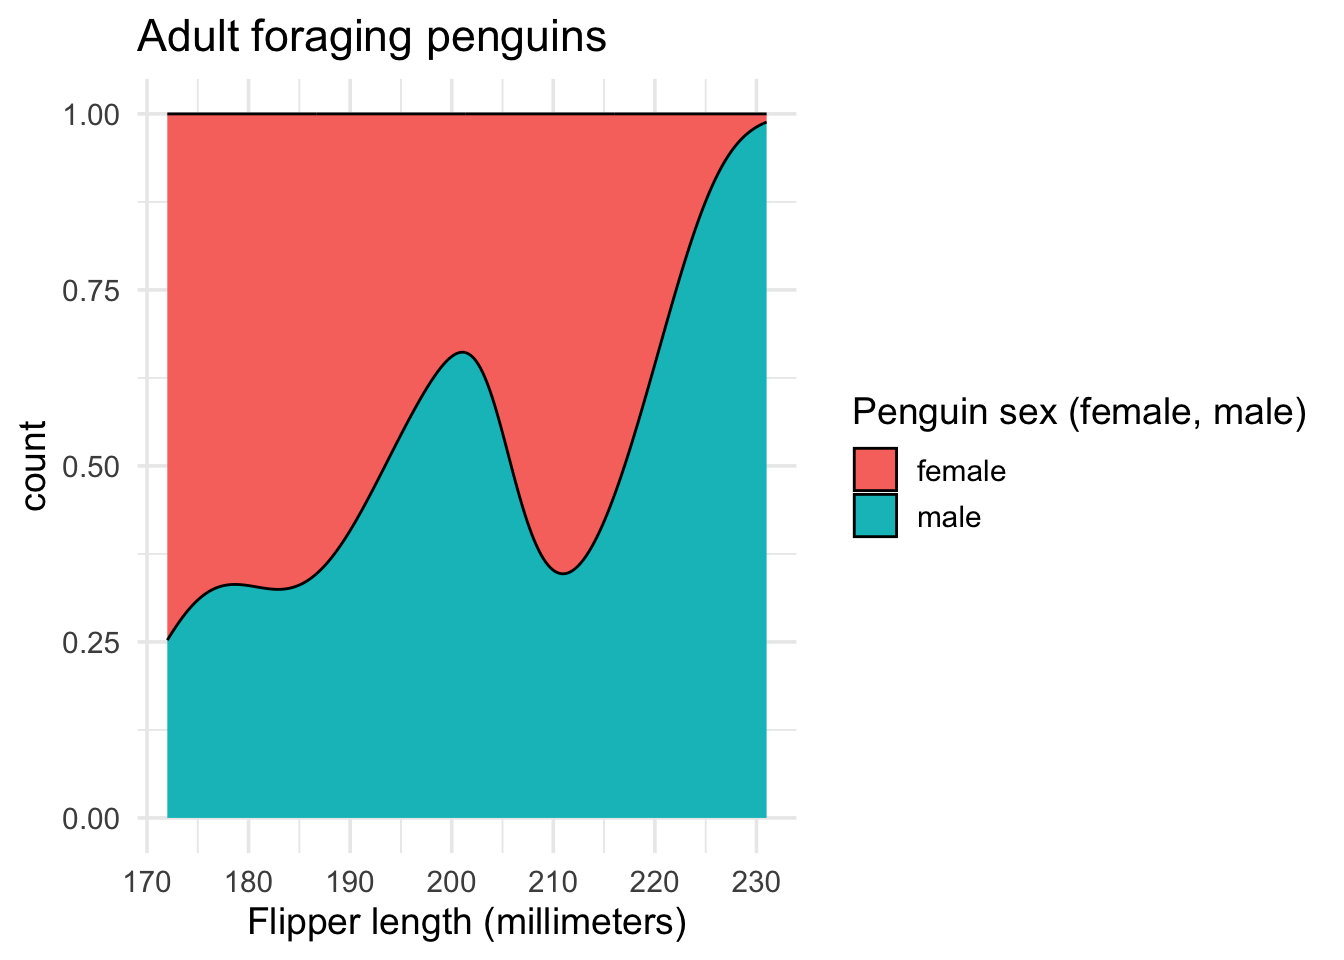
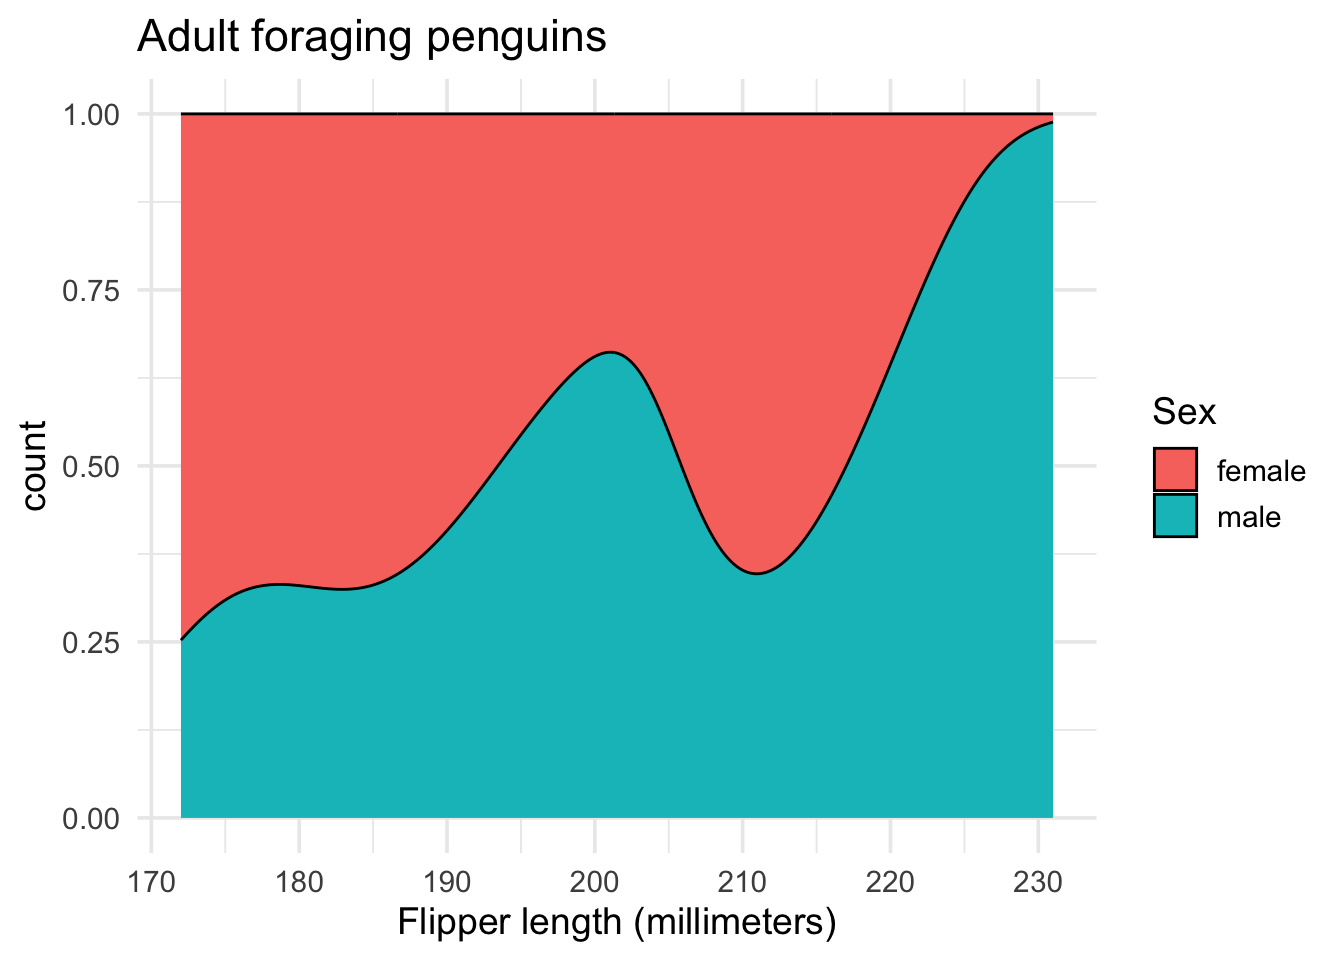
new build

diff --git a/docs/amounts.html b/docs/amounts.html
@@ -1003,7 +1003,7 @@ $ occurrences &lt;int&gt; 5, 0, 1, 4, 8, 0, 6, 0, 0, 2, 0, 2, 12, 12, 7, 0, 2, 7
 <span id="cb31-7"><a href="#cb31-7" aria-hidden="true" tabindex="-1"></a>       <span class="fu">aes</span>(<span class="at">x =</span> season, </span>
 <span id="cb31-8"><a href="#cb31-8" aria-hidden="true" tabindex="-1"></a>           <span class="at">y =</span> object, </span>
 <span id="cb31-9"><a href="#cb31-9" aria-hidden="true" tabindex="-1"></a>           <span class="at">fill =</span> occurrences)) <span class="sc">+</span> </span>
-<span id="cb31-10"><a href="#cb31-10" aria-hidden="true" tabindex="-1"></a>       <span class="fu">geom_tile</span>()</span>
+<span id="cb31-10"><a href="#cb31-10" aria-hidden="true" tabindex="-1"></a>       <span class="fu">geom_tile</span>() </span>
 <span id="cb31-11"><a href="#cb31-11" aria-hidden="true" tabindex="-1"></a>ggp2_heatmap_tile <span class="sc">+</span> </span>
 <span id="cb31-12"><a href="#cb31-12" aria-hidden="true" tabindex="-1"></a>  labs_heatmap_tile</span></code><button title="Copy to Clipboard" class="code-copy-button"><i class="bi"></i></button></pre></div>
 </div>
@@ -1103,7 +1103,7 @@ $ occurrences &lt;int&gt; 5, 0, 1, 4, 8, 0, 6, 0, 0, 2, 0, 2, 12, 12, 7, 0, 2, 7
 <span id="cb35-7"><a href="#cb35-7" aria-hidden="true" tabindex="-1"></a>       <span class="fu">aes</span>(<span class="at">x =</span> season, </span>
 <span id="cb35-8"><a href="#cb35-8" aria-hidden="true" tabindex="-1"></a>           <span class="at">y =</span> object, </span>
 <span id="cb35-9"><a href="#cb35-9" aria-hidden="true" tabindex="-1"></a>           <span class="at">fill =</span> occurrences)) <span class="sc">+</span> </span>
-<span id="cb35-10"><a href="#cb35-10" aria-hidden="true" tabindex="-1"></a>       <span class="fu">geom_raster</span>()</span>
+<span id="cb35-10"><a href="#cb35-10" aria-hidden="true" tabindex="-1"></a>       <span class="fu">geom_raster</span>() </span>
 <span id="cb35-11"><a href="#cb35-11" aria-hidden="true" tabindex="-1"></a>ggp2_heatmap_raster <span class="sc">+</span> </span>
 <span id="cb35-12"><a href="#cb35-12" aria-hidden="true" tabindex="-1"></a>  labs_heatmap_raster</span></code><button title="Copy to Clipboard" class="code-copy-button"><i class="bi"></i></button></pre></div>
 </div>

diff --git a/docs/proportions.html b/docs/proportions.html
@@ -662,7 +662,7 @@ $ year              &lt;int&gt; 2007, 2007, 2007, 2007, 2007, 2007, 2007, 2007, 
 <div class="sourceCode cell-code" id="cb20"><pre class="sourceCode r code-with-copy"><code class="sourceCode r"><span id="cb20-1"><a href="#cb20-1" aria-hidden="true" tabindex="-1"></a>labs_fill_density <span class="ot">&lt;-</span> <span class="fu">labs</span>(</span>
 <span id="cb20-2"><a href="#cb20-2" aria-hidden="true" tabindex="-1"></a>  <span class="at">title =</span> <span class="st">"Adult foraging penguins"</span>,</span>
 <span id="cb20-3"><a href="#cb20-3" aria-hidden="true" tabindex="-1"></a>  <span class="at">x =</span> <span class="st">"Flipper length (millimeters)"</span>,</span>
-<span id="cb20-4"><a href="#cb20-4" aria-hidden="true" tabindex="-1"></a>  <span class="at">fill =</span> <span class="st">"Penguin sex (female, male)"</span>)</span>
+<span id="cb20-4"><a href="#cb20-4" aria-hidden="true" tabindex="-1"></a>  <span class="at">fill =</span> <span class="st">"Sex"</span>)</span>
 <span id="cb20-5"><a href="#cb20-5" aria-hidden="true" tabindex="-1"></a>ggp2_fill_density <span class="ot">&lt;-</span> <span class="fu">ggplot</span>(<span class="at">data =</span> peng_density, </span>
 <span id="cb20-6"><a href="#cb20-6" aria-hidden="true" tabindex="-1"></a>       <span class="fu">aes</span>(<span class="at">x =</span> flipper_length_mm, </span>
 <span id="cb20-7"><a href="#cb20-7" aria-hidden="true" tabindex="-1"></a>           <span class="fu">after_stat</span>(count),</span>
